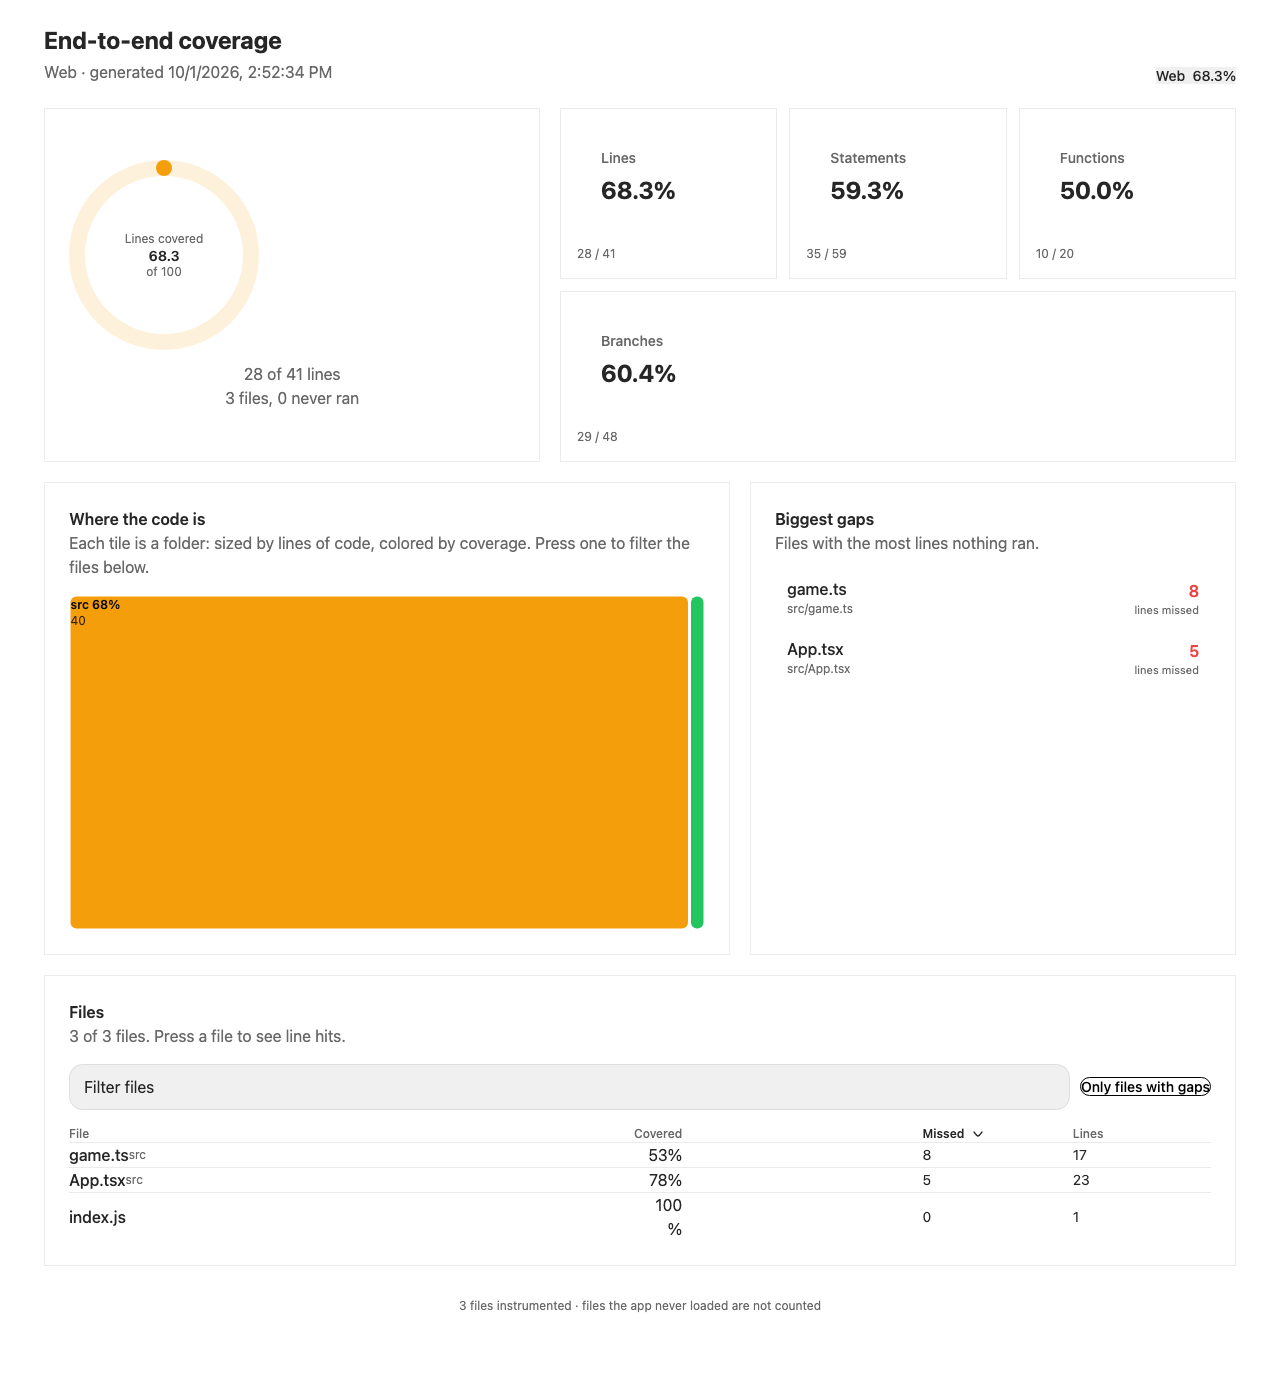
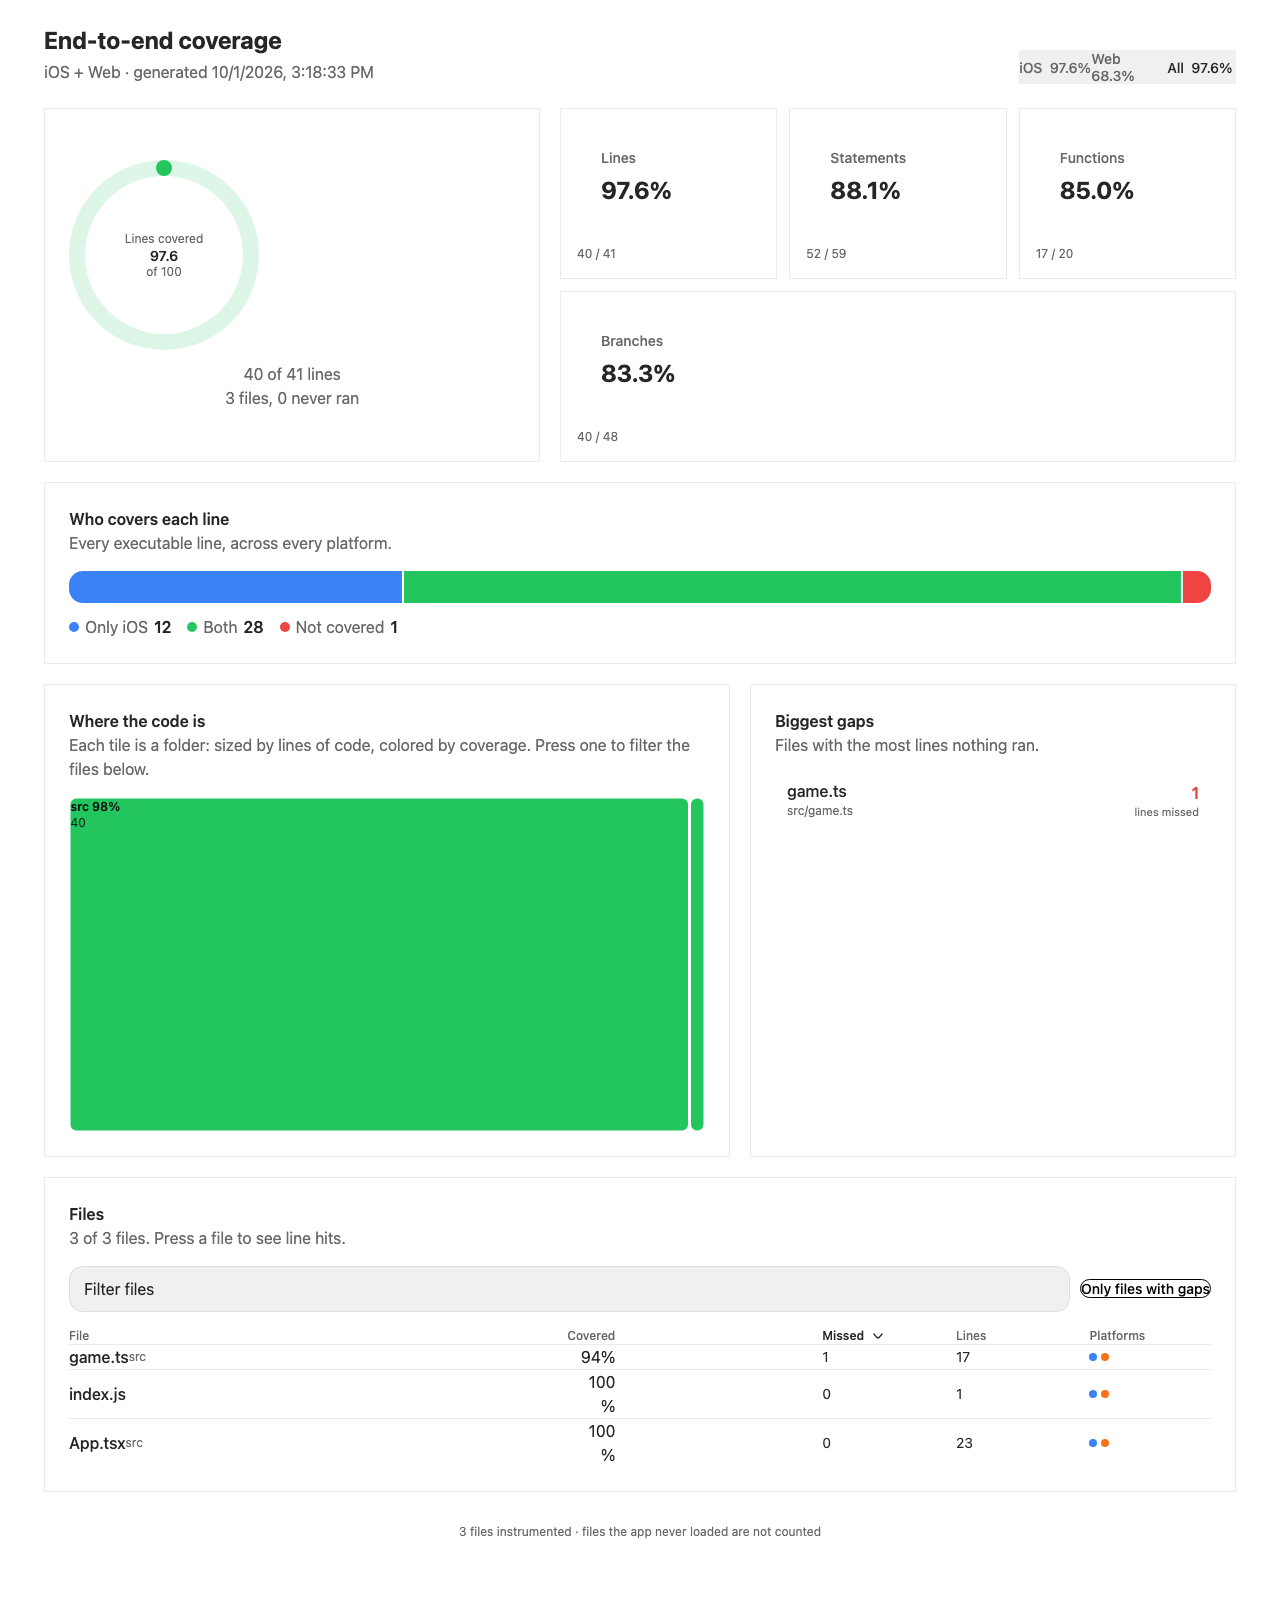
feat: native iOS coverage via Maestro; find Metro through the SourceCode TurboModule

diff --git a/packages/expo-coverage/src/runtime.ts b/packages/expo-coverage/src/runtime.ts
@@ -1,4 +1,4 @@
-import { AppState, NativeModules, Platform } from 'react-native';
+import { AppState, NativeModules, Platform, TurboModuleRegistry } from 'react-native';
 
 declare const process: { env: Record<string, string | undefined> };
 type CoverageGlobal = typeof globalThis & { __coverage__?: unknown; __expoCoverageFlush?: () => Promise<void> };
@@ -15,24 +15,35 @@ export function coverageUrl(): string | null {
   const baked = process.env.EXPO_PUBLIC_COVERAGE_URL;
   if (baked) return baked.replace(/\/$/, '');
   if (Platform.OS === 'web') return typeof location !== 'undefined' ? location.origin : null;
-  const script: string | undefined = NativeModules?.SourceCode?.scriptURL;
+  // Bridgeless (new architecture) apps expose SourceCode as a TurboModule only.
+  const sourceCode = (TurboModuleRegistry?.get?.('SourceCode') as { getConstants?: () => { scriptURL?: string } } | null) ?? null;
+  const script: string | undefined = sourceCode?.getConstants?.().scriptURL ?? NativeModules?.SourceCode?.scriptURL;
   const match = script && /^(https?:\/\/[^/]+)/.exec(script);
   return match ? (match[1] ?? null) : null;
+}
+
+let warned = false;
+function warnOnce(message: string): void {
+  if (warned) return;
+  warned = true;
+  console.warn(`[expo-coverage] ${message}`);
 }
 
 /** Posts the in-memory Istanbul map. Resolves either way: coverage must never break the app under test. */
 export async function flushCoverage(): Promise<void> {
   const coverage = g.__coverage__;
   const base = coverageUrl();
-  if (!coverage || !base) return;
+  if (!coverage) return;
+  if (!base) return warnOnce('could not work out where to post coverage. Set EXPO_PUBLIC_COVERAGE_URL.');
   try {
     await fetch(`${base}/__coverage?platform=${Platform.OS}`, {
       method: 'POST',
       headers: { 'Content-Type': 'application/json' },
       body: JSON.stringify(coverage),
     });
-  } catch {
+  } catch (error) {
     // Collector not up yet or already gone; the next flush sends the whole map again.
+    warnOnce(`could not reach ${base} (${error instanceof Error ? error.message : error}). Retrying every flush.`);
   }
 }
 

diff --git a/README.md b/README.md
@@ -195,7 +195,8 @@ presets: [['expo-coverage/babel', { include: ['src/**'], exclude: ['**/generated
 - **JavaScript only.** Native Swift, Kotlin and Java code is not measured.
 - **Dev and instrumented builds.** Instrumented code is slower and bigger. Do not ship it. The flag keeps it out of normal builds.
 - **Files the app never loads are not listed.** Coverage comes from loaded modules, so a screen your tests never reach will be missing rather than shown as 0%.
-- **Native is unverified in this repo's CI.** The web path is tested end to end here. The iOS and Android path uses the same runtime and collector, and the Maestro flows are included, but run them on your own simulator or device before relying on it.
+- **Verified on web and iOS.** The demo's Playwright specs and Maestro flows have run against a real iOS 26 simulator (dev build). Android uses the same runtime and has not been run yet, so treat it as untested.
+- **Dev servers.** In dev builds the app finds Metro on its own. For release or prebuilt apps, bake `EXPO_PUBLIC_COVERAGE_URL` and use `expo-coverage serve`.
 
 ## Repository layout
 
